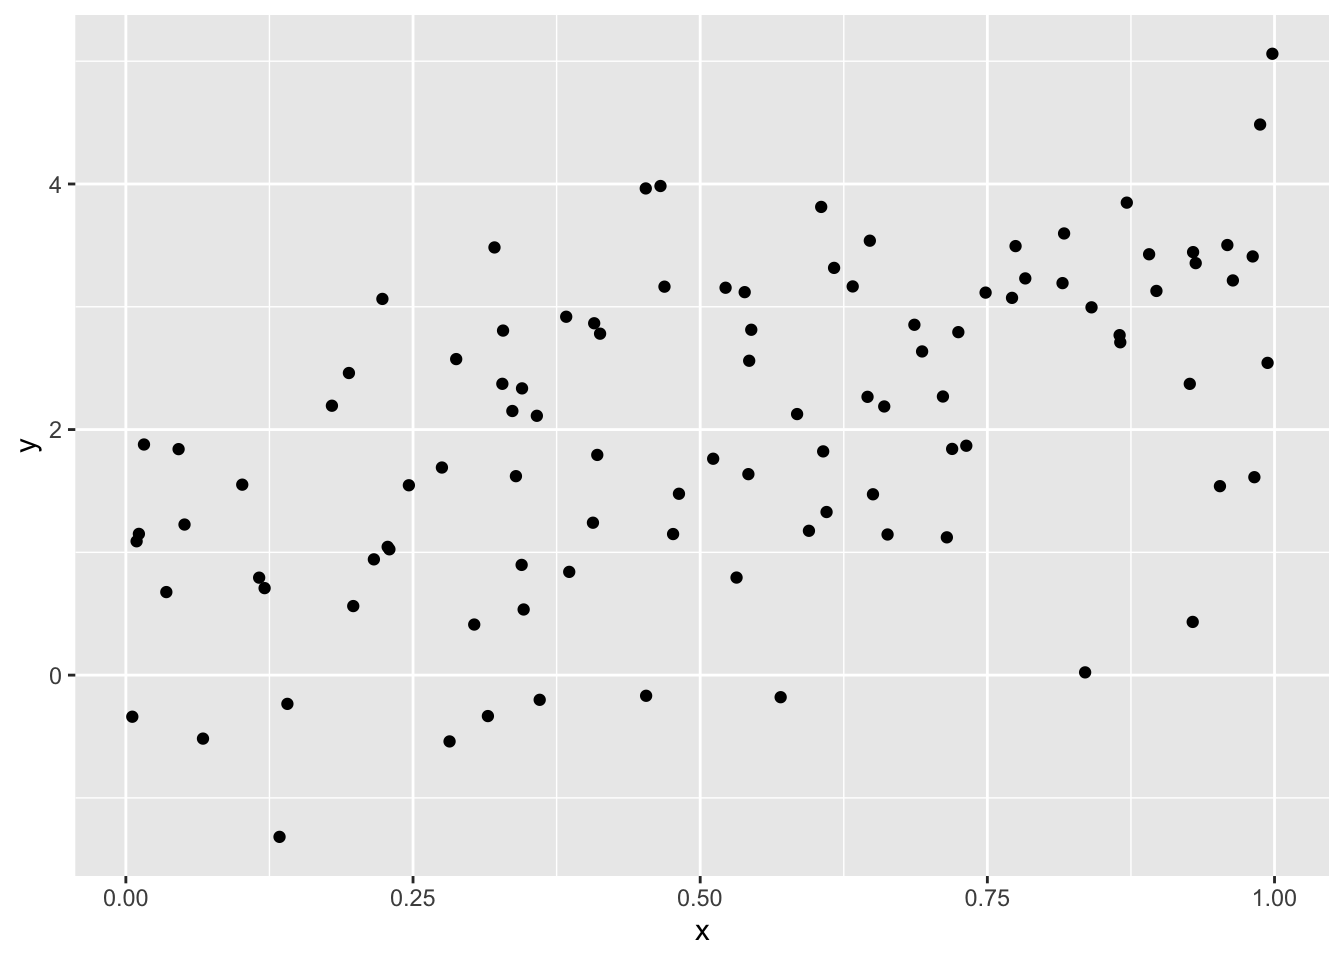
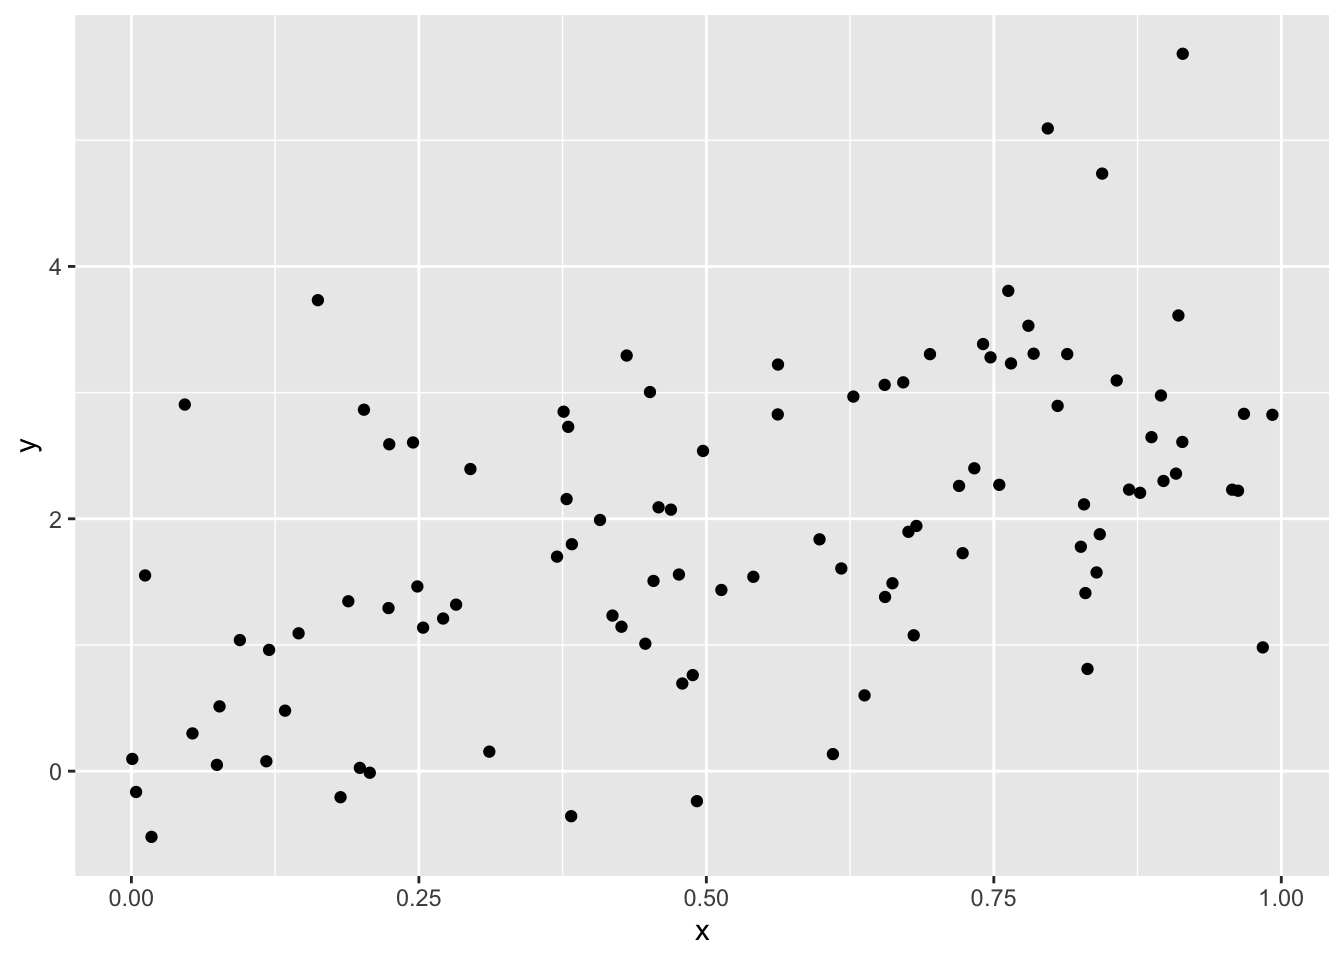
Adding project page

diff --git a/projects.html b/projects.html
@@ -11,7 +11,7 @@
 
 
 
-<title>Nihaal Rahman (nkr2121)</title>
+<title>Projects</title>
 
 <script src="site_libs/header-attrs-2.24/header-attrs.js"></script>
 <script src="site_libs/jquery-3.6.0/jquery-3.6.0.min.js"></script>
@@ -29,9 +29,6 @@
        h6 {font-size: 12px;}
        code {color: inherit; background-color: rgba(0, 0, 0, 0.04);}
        pre:not([class]) { background-color: white }</style>
-<script src="site_libs/jqueryui-1.13.2/jquery-ui.min.js"></script>
-<link href="site_libs/tocify-1.9.1/jquery.tocify.css" rel="stylesheet" />
-<script src="site_libs/tocify-1.9.1/jquery.tocify.js"></script>
 <script src="site_libs/navigation-1.1/tabsets.js"></script>
 <link href="site_libs/highlightjs-9.12.0/default.css" rel="stylesheet" />
 <script src="site_libs/highlightjs-9.12.0/highlight.js"></script>
@@ -224,69 +221,6 @@ $(document).ready(function () {
 
 
 
-<style type="text/css">
-
-#TOC {
-  margin: 25px 0px 20px 0px;
-}
-@media (max-width: 768px) {
-#TOC {
-  position: relative;
-  width: 100%;
-}
-}
-
-@media print {
-.toc-content {
-  /* see https://github.com/w3c/csswg-drafts/issues/4434 */
-  float: right;
-}
-}
-
-.toc-content {
-  padding-left: 30px;
-  padding-right: 40px;
-}
-
-div.main-container {
-  max-width: 1200px;
-}
-
-div.tocify {
-  width: 20%;
-  max-width: 260px;
-  max-height: 85%;
-}
-
-@media (min-width: 768px) and (max-width: 991px) {
-  div.tocify {
-    width: 25%;
-  }
-}
-
-@media (max-width: 767px) {
-  div.tocify {
-    width: 100%;
-    max-width: none;
-  }
-}
-
-.tocify ul, .tocify li {
-  line-height: 20px;
-}
-
-.tocify-subheader .tocify-item {
-  font-size: 0.90em;
-}
-
-.tocify .list-group-item {
-  border-radius: 0px;
-}
-
-
-</style>
-
-
 
 </head>
 
@@ -294,16 +228,6 @@ div.tocify {
 
 
 <div class="container-fluid main-container">
-
-
-<!-- setup 3col/9col grid for toc_float and main content  -->
-<div class="row">
-<div class="col-xs-12 col-sm-4 col-md-3">
-<div id="TOC" class="tocify">
-</div>
-</div>
-
-<div class="toc-content col-xs-12 col-sm-8 col-md-9">
 
 
 
@@ -356,39 +280,37 @@ div.tocify {
 
 
 
-<h1 class="title toc-ignore">Nihaal Rahman (nkr2121)</h1>
+<h1 class="title toc-ignore">Projects</h1>
 
 </div>
 
 
-<div id="this-is-jeffs-awesome-website" class="section level1">
-<h1>This is Jeff’s awesome website</h1>
-<p>Here’s a gif of elmo</p>
-<p><img
-src="https://media.giphy.com/media/drXGoW1iudhKw/giphy.gif" /></p>
-<p>You can add text</p>
-<ul>
-<li>and lists</li>
-<li>with extra bullets</li>
-</ul>
-<p>You can <em>FORMAT</em> and <strong>bold?</strong></p>
-<p>This is <a href="https://www.google.com/">link</a> to a good data
-science tool. Here is a link to <a
-href="https://p8105.com/index.html">P8105</a>. Here’s a link to the <a
-href="about.html">about</a> page</p>
-</div>
-<div id="heres-a-new-section" class="section level1">
-<h1>Here’s a new section</h1>
-<p>My cat is ted. This cat is ted:</p>
-<p><img src="images/ted.jpg" /></p>
-<p>Also here’s the “backstage” area in Alumni Auditorium:</p>
-<p><img src="images/backstage.jpg" /></p>
-</div>
+<p>#Here is a nice project</p>
+<p>You can also still use R!</p>
+<pre class="r"><code>library(tidyverse)</code></pre>
+<pre><code>## ── Attaching core tidyverse packages ── tidyverse 2.0.0 ──
+## ✔ dplyr     1.1.3     ✔ readr     2.1.4
+## ✔ forcats   1.0.0     ✔ stringr   1.5.0
+## ✔ ggplot2   3.4.3     ✔ tibble    3.2.1
+## ✔ lubridate 1.9.2     ✔ tidyr     1.3.0
+## ✔ purrr     1.0.2     
+## ── Conflicts ──────────────────── tidyverse_conflicts() ──
+## ✖ dplyr::filter() masks stats::filter()
+## ✖ dplyr::lag()    masks stats::lag()
+## ℹ Use the conflicted package (&lt;http://conflicted.r-lib.org/&gt;) to force all conflicts to become errors</code></pre>
+<pre class="r"><code>plot_df =
+  tibble(
+    x = runif(100),
+    y = 1 + 2 * x + rnorm(100)
+  )
+
+plot_df |&gt; 
+  ggplot(aes(x = x, y = y)) +
+  geom_point()</code></pre>
+<p><img src="projects_files/figure-html/unnamed-chunk-1-1.png" width="672" /></p>
 
 
 
-</div>
-</div>
 
 </div>
 
@@ -421,35 +343,6 @@ $(document).ready(function () {
 
 <!-- code folding -->
 
-<script>
-$(document).ready(function ()  {
-
-    // temporarily add toc-ignore selector to headers for the consistency with Pandoc
-    $('.unlisted.unnumbered').addClass('toc-ignore')
-
-    // move toc-ignore selectors from section div to header
-    $('div.section.toc-ignore')
-        .removeClass('toc-ignore')
-        .children('h1,h2,h3,h4,h5').addClass('toc-ignore');
-
-    // establish options
-    var options = {
-      selectors: "h1,h2,h3",
-      theme: "bootstrap3",
-      context: '.toc-content',
-      hashGenerator: function (text) {
-        return text.replace(/[.\\/?&!#<>]/g, '').replace(/\s/g, '_');
-      },
-      ignoreSelector: ".toc-ignore",
-      scrollTo: 0
-    };
-    options.showAndHide = true;
-    options.smoothScroll = true;
-
-    // tocify
-    var toc = $("#TOC").tocify(options).data("toc-tocify");
-});
-</script>
 
 <!-- dynamically load mathjax for compatibility with self-contained -->
 <script>
